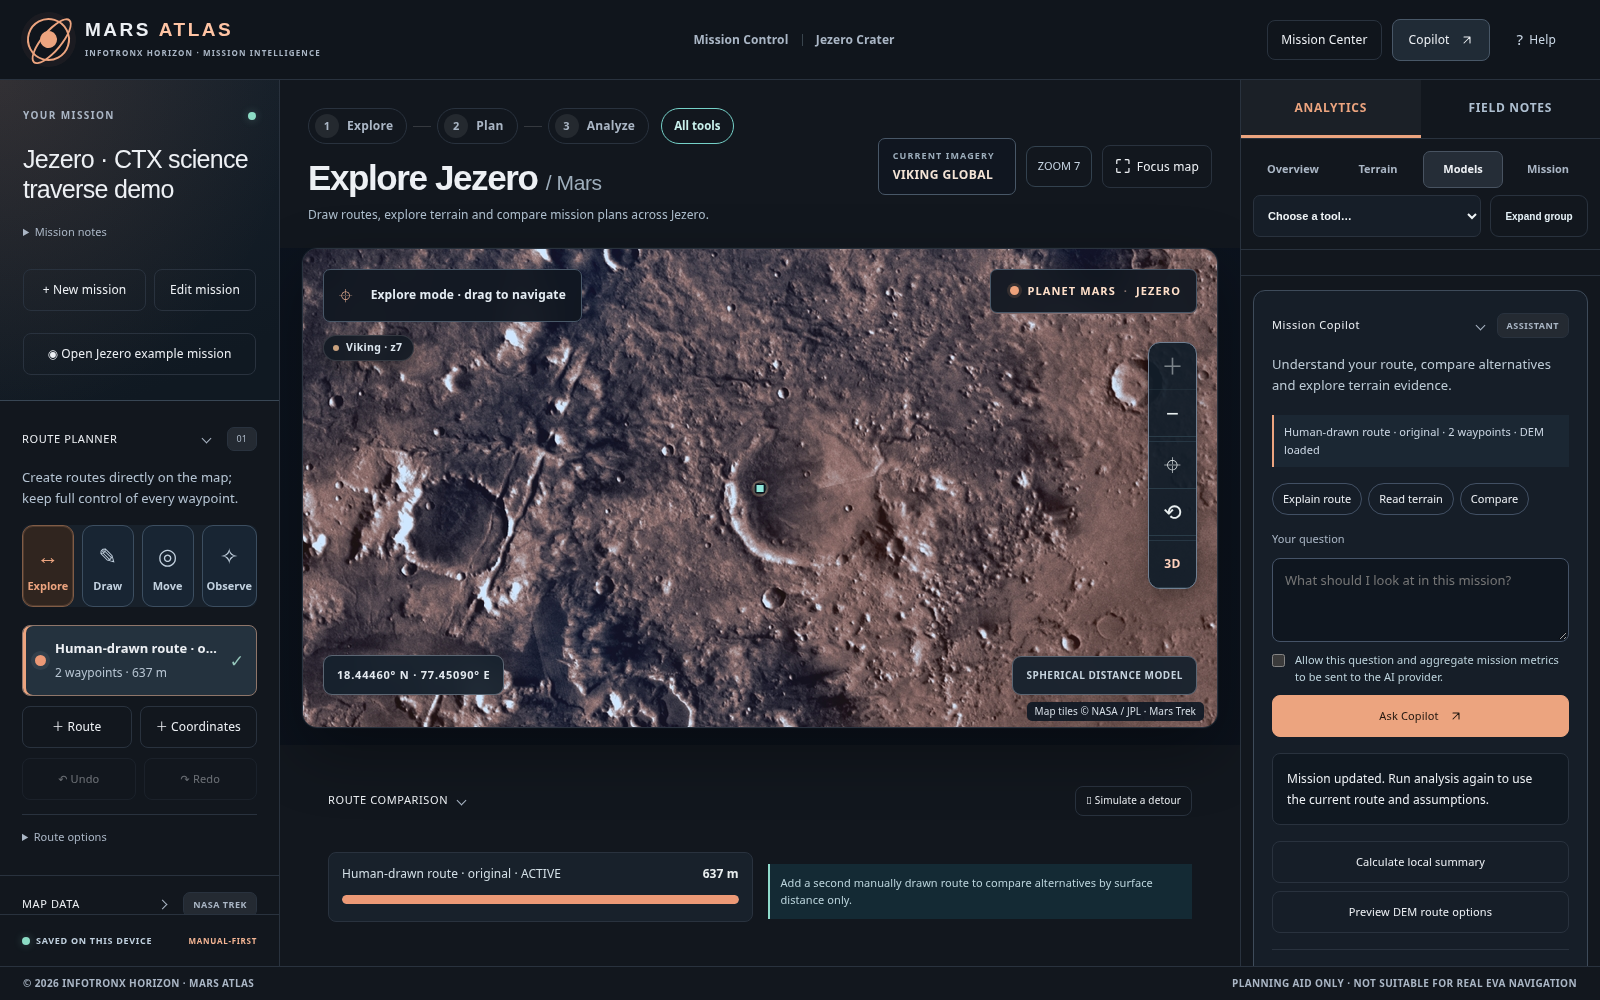
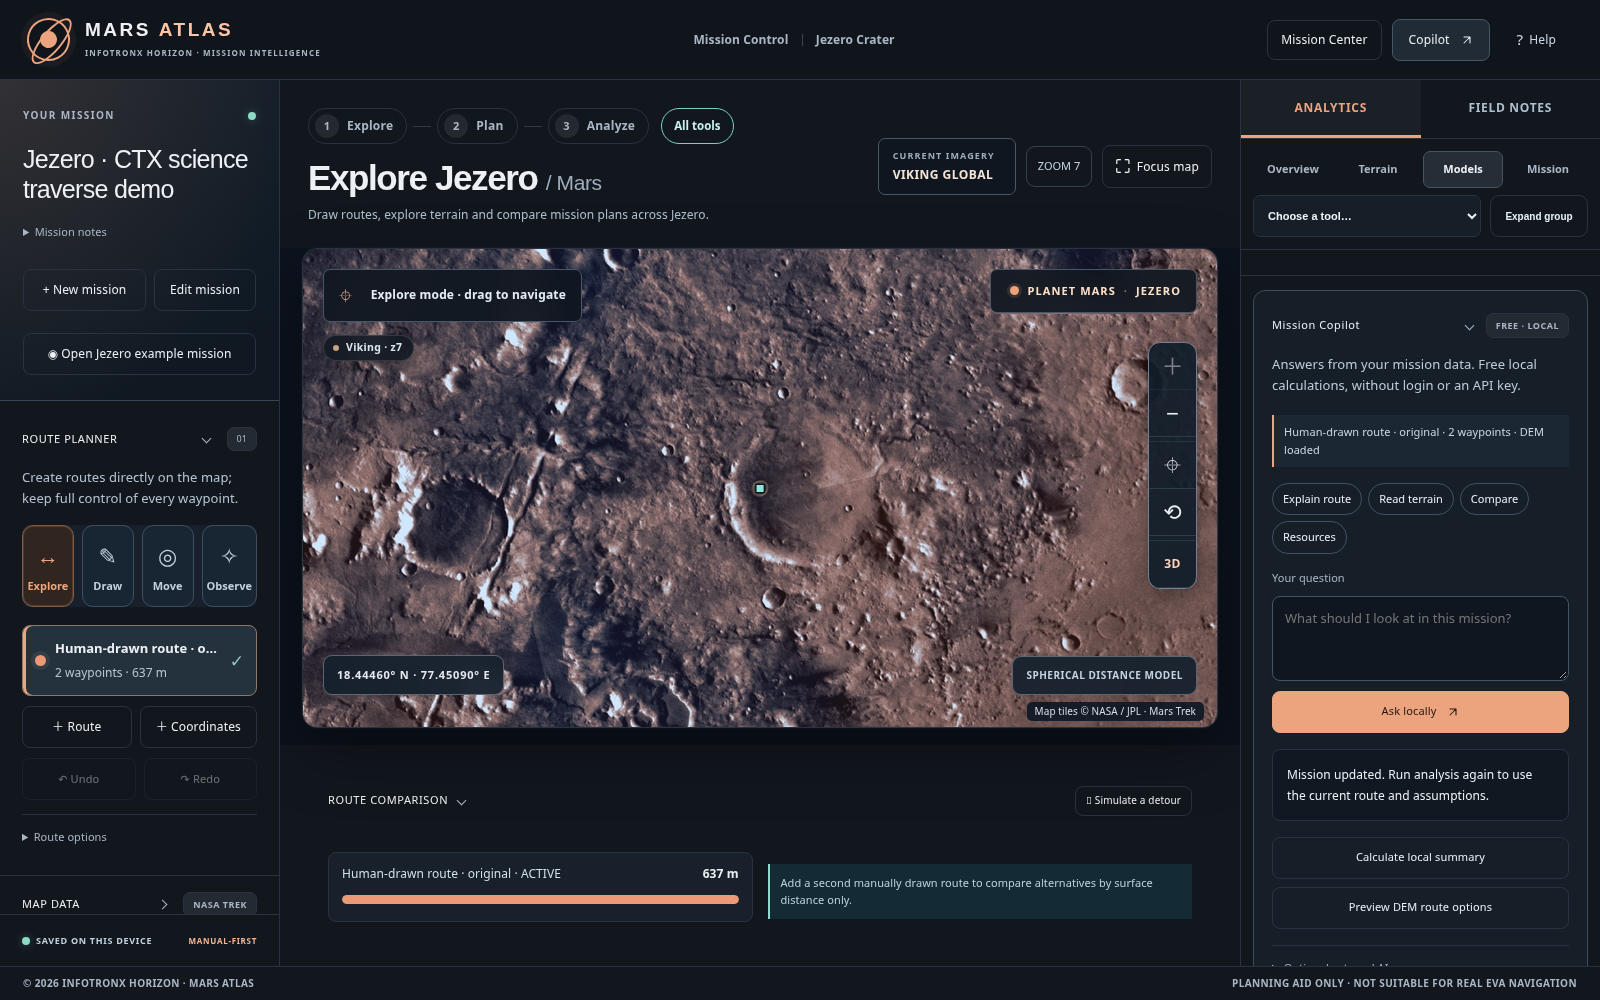
Make free local mission questions the default Copilot mode

diff --git a/src/mission-copilot-ui.js b/src/mission-copilot-ui.js
@@ -1,41 +1,44 @@
-import { buildMissionFacts, localMissionExplanation, normalizeCopilotQuestion } from "./mission-copilot.js";
+import { buildMissionFacts, localMissionExplanation, localMissionAnswer, normalizeCopilotQuestion } from "./mission-copilot.js";
 
 export function mountMissionCopilot({ panel, before, store, getDem, getCloud, notify })
 {
     const section = document.createElement("section");
     section.className = "panel-section science-model-section copilot-section";
     section.innerHTML = `
-        <div class="panel-title-row"><h2 class="section-label">MISSION COPILOT</h2><span class="tiny-pill">ASSISTANT</span></div>
-        <p class="section-help copilot-intro">Understand your route, compare alternatives and explore terrain evidence.</p>
+        <div class="panel-title-row"><h2 class="section-label">MISSION COPILOT</h2><span class="tiny-pill">FREE · LOCAL</span></div>
+        <p class="section-help copilot-intro">Answers from your mission data. Free local calculations, without login or an API key.</p>
         <div class="copilot-context" aria-live="polite"></div>
         <div class="copilot-prompts" aria-label="Suggested questions">
             <button type="button" data-copilot-prompt="Explain this route and its limitations.">Explain route</button>
             <button type="button" data-copilot-prompt="What can the loaded DEM tell us, and what data are missing?">Read terrain</button>
             <button type="button" data-copilot-prompt="How should I compare alternative routes without assuming the shortest is safest?">Compare</button>
+            <button type="button" data-copilot-prompt="Estimate resources for this route.">Resources</button>
         </div>
         <form id="copilot-ai-form" class="copilot-ai-form">
             <label for="copilot-question">Your question</label>
             <textarea id="copilot-question" maxlength="240" rows="3" placeholder="What should I look at in this mission?"></textarea>
-            <label class="copilot-consent"><input id="copilot-consent" type="checkbox"/> Allow this question and aggregate mission metrics to be sent to the AI provider.</label>
-            <button type="submit" class="btn btn-accent wide" id="copilot-ask">Ask Copilot <svg viewBox="0 0 16 16" aria-hidden="true"><path d="M4 12 12 4M4 4h8v8" fill="none" stroke="currentColor" stroke-width="1.4" stroke-linecap="round" stroke-linejoin="round"/></svg></button>
+            <label class="copilot-consent" hidden><input id="copilot-consent" type="checkbox"/> Allow this question and aggregate mission metrics to be sent to the AI provider.</label>
+            <button type="submit" class="btn btn-accent wide" id="copilot-ask">Ask locally <svg viewBox="0 0 16 16" aria-hidden="true"><path d="M4 12 12 4M4 4h8v8" fill="none" stroke="currentColor" stroke-width="1.4" stroke-linecap="round" stroke-linejoin="round"/></svg></button>
         </form>
         <div id="copilot-notice" class="copilot-notice" role="status" hidden></div>
-        <div id="copilot-output" class="copilot-output" role="status" aria-live="polite">Choose a question to start. Local calculations are available without an AI account.</div>
+        <div id="copilot-output" class="copilot-output" role="status" aria-live="polite">Choose a question to start. This assistant calculates supported answers locally; it is not a generative AI model.</div>
         <div class="copilot-local-actions">
             <button type="button" id="copilot-local" class="btn btn-outline wide">Calculate local summary</button>
             <button type="button" id="copilot-propose" class="btn btn-outline wide">Preview DEM route options</button>
         </div>
-        <details class="copilot-settings"><summary>Service & privacy</summary>
+        <details class="copilot-settings"><summary>Optional external AI</summary>
+            <label class="copilot-consent"><input id="copilot-use-ai" type="checkbox"/> Use an external model instead. Requires separate API billing, sign-in and consent.</label>
             <p>AI explanations require sign-in and a configured backend. Mission titles, raw coordinates, notes, chat messages and photos are excluded from the automatic context. Your question and the DEM source label are sent as written.</p>
             <button type="button" id="copilot-health" class="btn btn-outline wide">Check AI service status</button>
             <div id="copilot-owner-help" hidden><p>The backend reports a missing provider key. Project owners can set <code>OPENAI_API_KEY</code> in Supabase Edge Function Secrets, then check the service again.</p><a href="https://supabase.com/dashboard/project/yuvdrjptwumbfzjsimoe/functions/secrets" target="_blank" rel="noopener noreferrer">Open server settings ↗</a></div>
         </details>
-        <p class="science-footnote">AI explains the supplied evidence. DEM proposals are computed locally and added only when you choose them.</p>`;
+        <p class="science-footnote">Local answers use supported question categories and calculated evidence. DEM proposals are added only when you choose them.</p>`;
     panel.insertBefore(section,before);
     const output = section.querySelector("#copilot-output");
     const form = section.querySelector("#copilot-ai-form");
     const question = section.querySelector("#copilot-question");
     const consent = section.querySelector("#copilot-consent");
+    const useAi = section.querySelector("#copilot-use-ai");
     const send = section.querySelector("#copilot-ask");
     const status = section.querySelector("#copilot-health");
     const notice = section.querySelector("#copilot-notice");
@@ -70,9 +73,22 @@ export function mountMissionCopilot({ panel, before, store, getDem, getCloud, no
 
     let requestVersion = 0;
     const missionSignature = () => JSON.stringify(store.current);
+    useAi.addEventListener('change', () =>
+    {
+        requestVersion++;
+        send.disabled = false;
+        consent.checked = false;
+        consent.closest('label').hidden = !useAi.checked;
+        send.textContent = useAi.checked ? 'Ask external AI' : 'Ask locally';
+        clearNotice();
+        output.textContent = useAi.checked
+            ? 'External AI selected. API billing, sign-in and consent are required. No request has been sent.'
+            : 'Local mode selected. No question or mission metrics will be sent to an AI provider.';
+    });
     store.subscribe(() =>
     {
         requestVersion++;
+        send.disabled = false;
         updateContext();
         clearNotice();
         output.textContent = "Mission updated. Run analysis again to use the current route and assumptions.";
@@ -191,6 +207,7 @@ export function mountMissionCopilot({ panel, before, store, getDem, getCloud, no
         try
         {
             requestVersion++;
+            send.disabled = false;
             clearNotice();
             updateContext();
             output.textContent = localMissionExplanation(buildMissionFacts(store.current,getDem()));
@@ -204,6 +221,23 @@ export function mountMissionCopilot({ panel, before, store, getDem, getCloud, no
     form.addEventListener("submit",async event =>
     {
         event.preventDefault();
+
+        if (!useAi.checked)
+        {
+            requestVersion++;
+            send.disabled = false;
+            clearNotice();
+            updateContext();
+            try
+            {
+                output.textContent = localMissionAnswer(buildMissionFacts(store.current,getDem()),question.value);
+            }
+            catch (error)
+            {
+                output.textContent = error.message;
+            }
+            return;
+        }
 
         if (!consent.checked)
         {
@@ -261,7 +295,7 @@ export function mountMissionCopilot({ panel, before, store, getDem, getCloud, no
         }
         finally
         {
-            send.disabled = false;
+            if (version === requestVersion) send.disabled = false;
         }
     });
 

diff --git a/src/mission-copilot.js b/src/mission-copilot.js
@@ -100,3 +100,56 @@ export function normalizeCopilotQuestion(value)
 
     return text;
 }
+
+// Supported mission questions are answered from calculated facts, without a model or network.
+export function localMissionAnswer(facts, question)
+{
+    const text = normalizeCopilotQuestion(question).normalize('NFD').replace(/[\u0300-\u036f]/g, '').toLowerCase();
+    const label = 'LOCAL ANALYSIS · No AI model or external request\n\n';
+
+    if (/\b(safe|safety|sigur|sigura|siguranta|pericol)\b/.test(text))
+    {
+        return label + 'These data cannot establish safe traversability. DEM models omit soil strength, rocks, wheel slip and current hazards. Exclusions are user assumptions. Inspect terrain evidence and model constraints before comparing candidates.';
+    }
+
+    if (/compar|alternativ|shortest|scurt/.test(text))
+    {
+        const routes = facts.alternatives.filter(item => item.waypointCount >= 2).sort((a,b) => a.distanceMeters - b.distanceMeters);
+        if (routes.length < 2)
+        {
+            return label + 'At least two routes with two waypoints each are needed for a distance comparison. Create another route manually, or use Preview DEM route options. Empty routes are excluded.';
+        }
+        return label + routes.map(item => 'Route ' + item.index + ': ' + item.distanceMeters.toFixed(2) + ' m · ' + item.waypointCount + ' waypoints').join('\n') +
+            '\n\nShortest waypoint polyline: route ' + routes[0].index + ' (ties may exist). This ranks spherical distance only. DEM-grid costs and physical traversability are separate questions.';
+    }
+
+    if (/terrain|elevation|slope|dem|teren|altitud|panta|pante/.test(text))
+    {
+        if (!facts.hasNumericDem)
+        {
+            return label + 'Load the numeric Jezero DEM in Terrain first. Satellite imagery supplies visual context; its colors do not provide numeric elevation. The bundled DEM covers a limited study area.';
+        }
+        return label + 'Elevation source: ' + facts.demSource + '.\n' + facts.demCoveredWaypoints + '/' + facts.waypointCount + ' waypoint positions have DEM samples. Coverage at the waypoints does not establish continuous coverage between them.\n' +
+            (facts.modeledMaxGradePercent === null ? 'No saved routing-grade result is available for the active route. Open Terrain to inspect its profile or preview route options.' : 'Saved maximum adjacent-cell grade: ' + facts.modeledMaxGradePercent.toFixed(2) + '%. This stored model is unverified and does not certify safety.');
+    }
+
+    if (/resource|oxygen|oxigen|battery|bater|energy|energie|duration|durat|time|timp/.test(text))
+    {
+        if (facts.waypointCount < 2)
+        {
+            return label + 'Select a route with at least two waypoints before estimating travel resources. An empty route is not a completed zero-cost mission.';
+        }
+        const scenario = facts.resourceScenario;
+        const minutes = Math.round(scenario.durationHours * 60);
+        return label + 'Using your saved resource assumptions:\n' + Math.floor(minutes / 60) + 'h ' + minutes % 60 + 'm total · ' + scenario.oxygenKg.toFixed(3) + ' kg O₂ · ' + Math.round(scenario.batteryWh) + ' Wh.\n' +
+            'Walking speed: ' + scenario.speedKmh + ' km/h; ' + (scenario.retraceReturn ? 'includes retracing the route to return.' : 'one-way travel.') +
+            '\nThese are illustrative scenario estimates. They exclude terrain-dependent walking effects and are not measured suit telemetry.';
+    }
+
+    if (/route|mission|summar|overview|distance|ruta|rute|misiun|rezum|distanta/.test(text))
+    {
+        return localMissionExplanation(facts);
+    }
+
+    return label + 'I can explain route distance, compare alternatives, summarize terrain coverage and estimate resource scenarios. Try “Compare routes”, “Explain terrain” or “Estimate resources”. Free-form conversation requires a separate language model; this assistant uses local calculations.';
+}

diff --git a/src/atlas-minimal.css b/src/atlas-minimal.css
@@ -148,3 +148,5 @@ body { background:var(--bg); }
 .route-options .route-actions { margin-top:8px; grid-template-columns:1fr 1fr; }
 .route-options .route-color-setting { font-size:10px; letter-spacing:.6px; }
 .header-copilot svg,.copilot-ai-form .btn svg { width:12px; height:12px; vertical-align:middle; margin-left:5px; }
+.copilot-consent[hidden] { display:none; }
+.copilot-settings > .copilot-consent { margin-top:12px; }

diff --git a/docs/COPILOT_REWORK.md b/docs/COPILOT_REWORK.md
@@ -22,3 +22,12 @@ The static site and Supabase Edge Function must be released together to include 
 The header's Copilot shortcut opens the right tab, analytics category and expanded assistant together, including on mobile. Planning controls, map layers and route comparison can be folded without rebuilding their contents. Advanced science panels start closed, while the DEM lab, telemetry, waypoint list and Copilot remain immediately accessible. Route color, duplication and destructive actions live in Route options. Repeated mission objectives, a second route-summary panel and the redundant Last point action were removed from the UI. A hint identifies an empty active route when another route already contains data. The DEM context refreshes after terrain loads.
 
 The reported live AI_NOT_CONFIGURED response maps to the function's missing OPENAI_API_KEY branch. No administrative Supabase binding or provider key is available in this machine; activation could not be completed here. The project owner must configure the key securely in Supabase Edge Function Secrets and then verify an authenticated model response. Never put that key in the static frontend or chat.
+
+
+## No-payment default
+
+Copilot starts in free local mode. The primary question form dispatches supported route, terrain, comparison, resource and safety questions to deterministic functions over the current facts. It makes no request to the AI endpoint and does not require sign-in, consent or an API key in this mode. Unsupported prompts receive a clear capability message; this is not a local language model. English and common Romanian topic keywords are recognized.
+
+External generation is disabled by default behind Optional external AI. It requires an explicit mode switch, fresh consent, authentication and separately configured API billing. No free OpenAI API quota is assumed. The existing DEM preview and manually accepted candidates work independently of the external model.
+
+Unit tests verify local numerical output, no-data handling and exclusion of empty route alternatives. The browser regression checks the default question flow generates no AI backend request; the optional external mode retains its consent, sign-in, stale-response and error checks.
